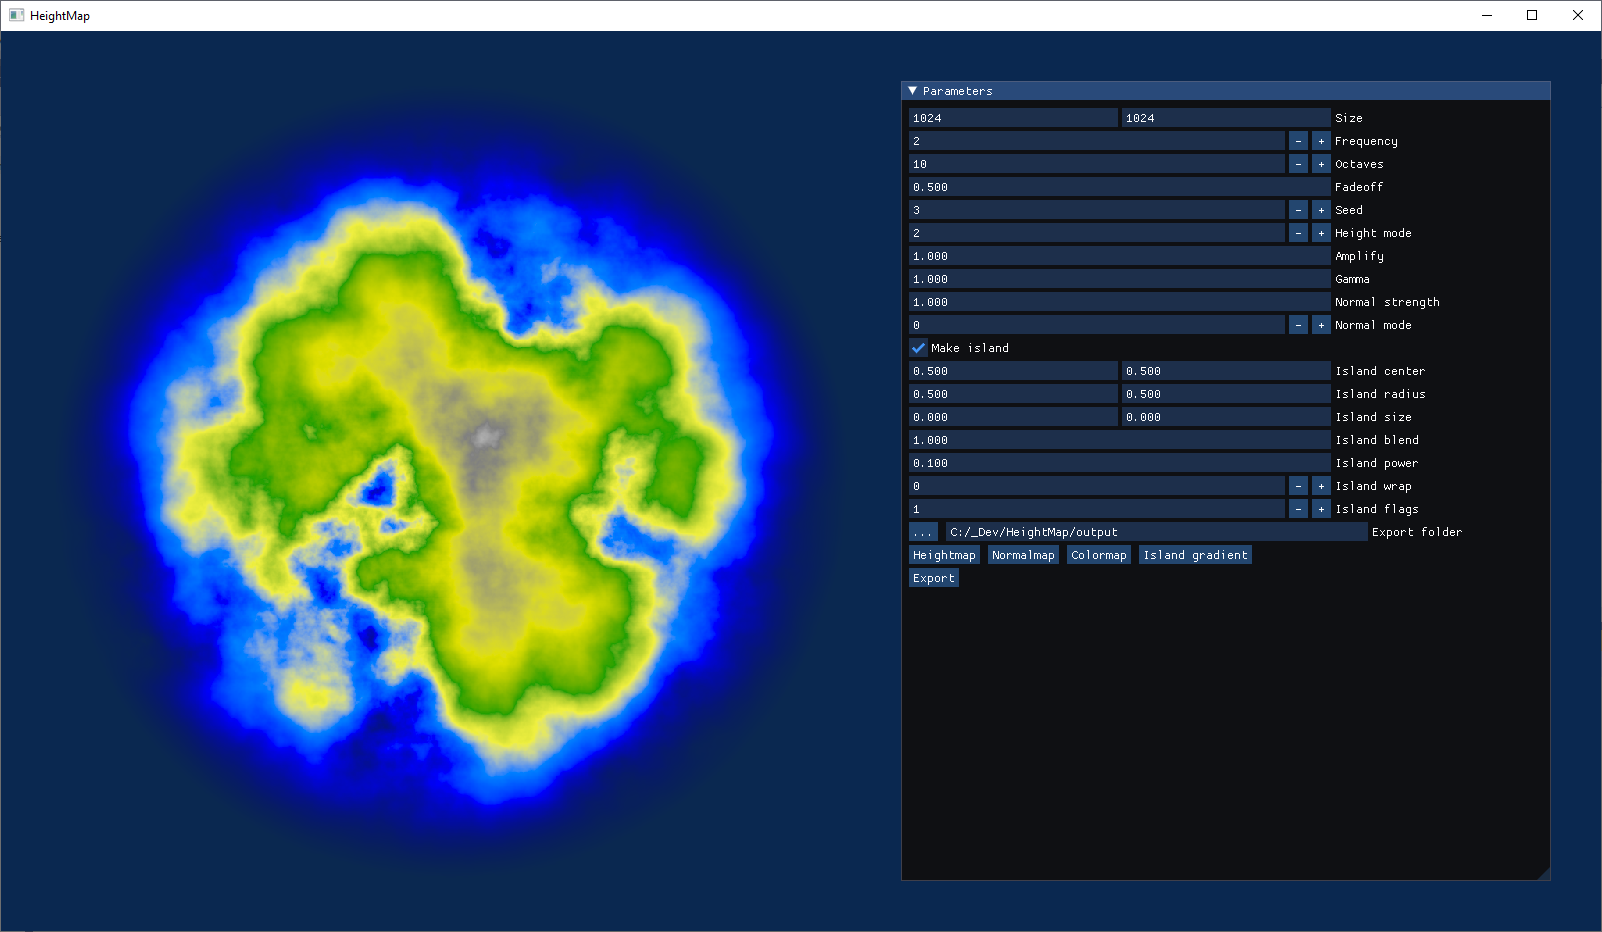
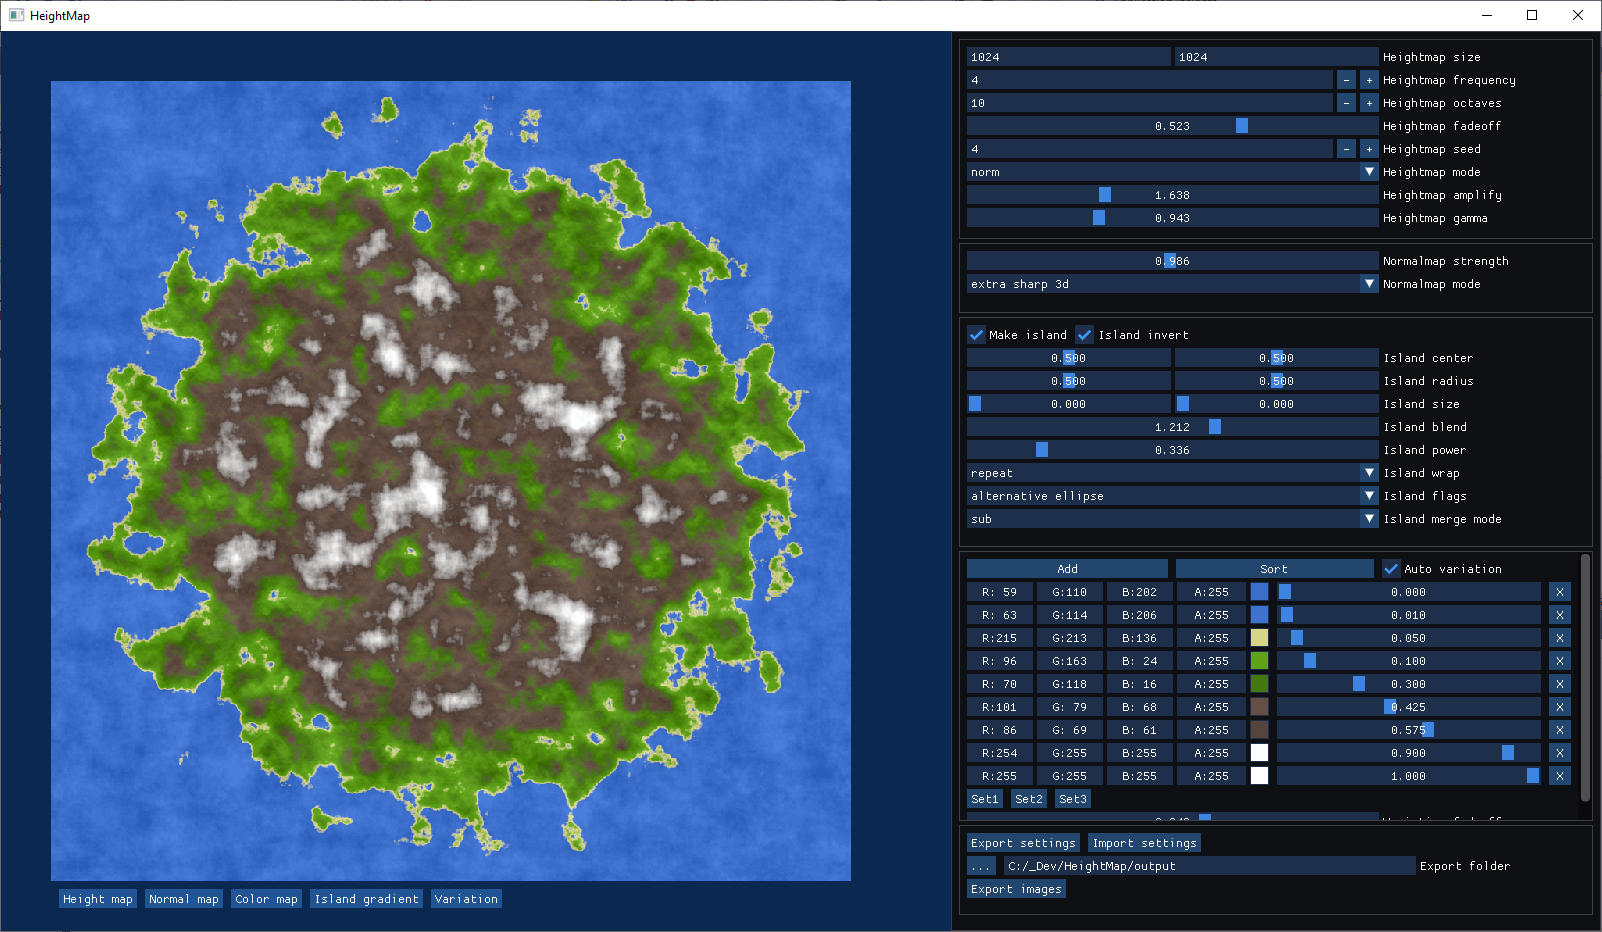
colors

diff --git a/HeightMap/view.cpp b/HeightMap/view.cpp
@@ -20,7 +20,7 @@
 namespace
   {
   template <typename T, typename Compare>
-  std::vector<std::size_t> sort_permutation(const std::vector<T>& vec, Compare& compare)
+  std::vector<std::size_t> sort_permutation(const std::vector<T>& vec, Compare compare)
     {
     std::vector<std::size_t> p(vec.size());
     std::iota(p.begin(), p.end(), 0);
@@ -108,7 +108,33 @@ namespace
     return clrs;
     }
 
-  std::unique_ptr<image> image_height_to_color(const std::unique_ptr<image>& im_height, std::vector<map_color> colors)
+  template <class T>
+  inline T clamp(T a, T minimum, T maximum)
+    {
+    return a < minimum ? minimum : a > maximum ? maximum : a;
+    }
+
+  uint64_t vary_color(uint64_t clr, uint64_t variation)
+    {
+    int64_t red = clr & 0x7fff;
+    int64_t green = (clr >> 16) & 0x7fff;
+    int64_t blue = (clr >> 32) & 0x7fff;
+    int64_t alpha = (clr >> 48) & 0x7fff;
+
+    int64_t var = ((variation & 0x7fff) >> 3) - (0x7fff>>4);
+    
+    red += var;
+    green += var;
+    blue += var;
+
+    red = clamp<int64_t>(red, 0, 0x7fff);
+    green = clamp<int64_t>(green, 0, 0x7fff);
+    blue = clamp<int64_t>(blue, 0, 0x7fff);
+
+    return alpha << 48 | blue << 32 | green << 16 | red;
+    }
+
+  std::unique_ptr<image> image_height_to_color(const std::unique_ptr<image>& im_height, const std::unique_ptr<image>& im_variation, std::vector<map_color> colors)
     {
     if (colors.empty())
       {
@@ -132,6 +158,10 @@ namespace
     uint64_t* dest = im_out->data();
     const uint64_t* height = im_height->data();
     uint32_t count = im_out->size();
+    uint64_t default_variation = 0;
+    const uint64_t* variation = &default_variation;
+    if (im_variation.get())
+      variation = im_variation->data();
     for (uint32_t i = 0; i < count; ++i)
       {
       double scale = (double)(*height & 0x7fff) / 0x7fff;
@@ -160,10 +190,13 @@ namespace
         rgba c3 = c1 * (1 - alpha) + c2 * alpha;
         *dest = get_color_64(c3.color());
         }
+      if (*variation)
+        *dest = vary_color(*dest, *variation);
       ++height;
       ++dest;
+      if (im_variation.get())
+        ++variation;
       }
-
     return im_out;
     }
 
@@ -187,6 +220,40 @@ namespace
     s.colors.push_back(0xff00e0e0);
     s.colors.push_back(0xff808080);
     s.colors.push_back(0xffffffff);
+    }
+
+  void make_color_set2(settings& s)
+    {
+    s.heights.clear();
+    s.colors.clear();
+    s.colors.push_back(rgba(59, 110, 202, 255).color()); s.heights.push_back(0);
+    s.colors.push_back(rgba(63, 114, 206, 255).color()); s.heights.push_back(0.01);
+    s.colors.push_back(rgba(215, 213, 136, 255).color()); s.heights.push_back(0.05);
+    s.colors.push_back(rgba(96, 163, 24, 255).color()); s.heights.push_back(0.1);
+    s.colors.push_back(rgba(70, 118, 16, 255).color()); s.heights.push_back(0.3);
+    s.colors.push_back(rgba(101, 79, 68, 255).color()); s.heights.push_back(0.425);
+    s.colors.push_back(rgba(86, 69, 61, 255).color()); s.heights.push_back(0.575);
+    s.colors.push_back(rgba(254, 255, 255, 255).color()); s.heights.push_back(0.9);
+    s.colors.push_back(rgba(255, 255, 255, 255).color()); s.heights.push_back(1.0);
+    }
+
+  void make_color_set3(settings& s)
+    {
+    s.heights.clear();
+    s.colors.clear();
+    s.colors.push_back(rgba(0, 63, 178, 255).color()); s.heights.push_back(0);
+    s.colors.push_back(rgba(11, 83, 200, 255).color()); s.heights.push_back(0.01);
+    s.colors.push_back(rgba(164, 150, 95, 255).color()); s.heights.push_back(0.05);
+    s.colors.push_back(rgba(132, 117, 70, 255).color()); s.heights.push_back(0.1);
+    s.colors.push_back(rgba(113, 101, 51, 255).color()); s.heights.push_back(0.2);
+    s.colors.push_back(rgba(120, 157, 81, 255).color()); s.heights.push_back(0.3);
+    s.colors.push_back(rgba(88, 128, 51, 255).color()); s.heights.push_back(0.4);
+    s.colors.push_back(rgba(59, 97, 20, 255).color()); s.heights.push_back(0.5);
+    s.colors.push_back(rgba(39, 77, 1, 255).color()); s.heights.push_back(0.6);
+    s.colors.push_back(rgba(141, 142, 124, 255).color()); s.heights.push_back(0.7);
+    s.colors.push_back(rgba(161, 164, 145, 255).color()); s.heights.push_back(0.8);
+    s.colors.push_back(rgba(235, 235, 237, 255).color()); s.heights.push_back(0.9);
+    s.colors.push_back(rgba(254, 254, 254, 255).color()); s.heights.push_back(1.0);
     }
 
   }
@@ -371,20 +438,24 @@ void view::_imgui_ui()
     ImGui::BeginChild("Colors", ImVec2(0.0, 270.0f), true);
     ImGui::BeginGroup();
 
-    if (ImGui::Button("Add", ImVec2(ImGui::GetContentRegionAvail().x * 0.5, 0)))
+    if (ImGui::Button("Add", ImVec2(ImGui::GetContentRegionAvail().x * 0.3333f, 0)))
       {
       _settings.heights.push_back(0.0);
       _settings.colors.push_back(0xff00ff00);
       _dirty = true;
       }
     ImGui::SameLine();
-    if (ImGui::Button("Sort", ImVec2(ImGui::GetContentRegionAvail().x, 0)))
+    if (ImGui::Button("Sort", ImVec2(ImGui::GetContentRegionAvail().x*0.5f, 0)))
       {
       auto p = sort_permutation(_settings.heights, [](auto left, auto right) { return left < right; });
       _settings.heights = apply_permutation(_settings.heights, p);
       _settings.colors = apply_permutation(_settings.colors, p);
       }
-
+    ImGui::SameLine();
+    if (ImGui::Checkbox("Auto variation", &_settings.auto_vary_colors))
+      {
+      _dirty = true;
+      }
     uint32_t colors_size = (uint32_t)_settings.colors.size();
     if (_settings.heights.size() < colors_size)
       colors_size = (uint32_t)_settings.heights.size();
@@ -401,7 +472,7 @@ void view::_imgui_ui()
         uint32_t green = (uint32_t)(clr[1] * 255.f);
         uint32_t blue = (uint32_t)(clr[2] * 255.f);
         uint32_t alpha = (uint32_t)(clr[3] * 255.f);
-        _settings.colors[i] = alpha << 24 | blue << 16 | green <<  8 | red;
+        _settings.colors[i] = alpha << 24 | blue << 16 | green << 8 | red;
         _dirty = true;
         }
       ImGui::PopItemWidth();
@@ -433,7 +504,28 @@ void view::_imgui_ui()
       delete_items(_settings.colors, points_to_delete);
       delete_items(_settings.heights, points_to_delete);
       _dirty = true;
-      }    
+      }
+    if (ImGui::Button("Set1"))
+      {
+      make_color_set1(_settings);
+      _dirty = true;
+      }
+    ImGui::SameLine();
+    if (ImGui::Button("Set2"))
+      {
+      make_color_set2(_settings);
+      _dirty = true;
+      }
+    ImGui::SameLine();
+    if (ImGui::Button("Set3"))
+      {
+      make_color_set3(_settings);
+      _dirty = true;
+      }
+    if (ImGui::SliderFloat("Variation fadeoff", &_settings.variation_fadeoff, -1.5f, 1.5f))
+      {
+      _dirty = true;
+      }
     ImGui::EndGroup();
     ImGui::EndChild();
 
@@ -525,6 +617,12 @@ void view::_imgui_ui()
       _settings.render_target = 3;
       _dirty = true;
       }
+    ImGui::SameLine();
+    if (ImGui::Button("Variation"))
+      {
+      _settings.render_target = 4;
+      _dirty = true;
+      }
     }
   ImGui::End();
 
@@ -597,7 +695,12 @@ void view::_check_image()
   _normalmap = image_normals(_heightmap, _settings.normalmap_strength, static_cast<image_normals_mode>(_settings.normalmap_mode));
 
   std::vector<map_color> colors = build_map_colors(_settings.colors, _settings.heights);
-  _colormap = image_height_to_color(_heightmap, colors);
+  std::unique_ptr<image> _variation;
+  if (_settings.auto_vary_colors || _settings.render_target == 4)
+    {
+    _variation = image_perlin(_settings.width, _settings.height, _settings.frequency, _settings.octaves, _settings.fadeoff+_settings.variation_fadeoff, _settings.seed+1, static_cast<image_perlin_mode>(_settings.mode), _settings.amplify, _settings.gamma, 0xff000000, 0xffffffff);
+    }
+  _colormap = image_height_to_color(_heightmap, _variation, colors);
   if (_reallocate_sdl_surface)
     {
     SDL_FreeSurface(_heightmap_surface);
@@ -616,6 +719,10 @@ void view::_check_image()
       break;
     case 3:
       fill_sdl_surface(_heightmap_surface, _islandgradient);
+      break;
+    case 4:
+      if (_variation.get())
+        fill_sdl_surface(_heightmap_surface, _variation);      
       break;
     default:
       fill_sdl_surface(_heightmap_surface, _heightmap);

diff --git a/HeightMap/settings.cpp b/HeightMap/settings.cpp
@@ -8,6 +8,7 @@ settings::settings()
   frequency = 2;
   octaves = 6;
   fadeoff = 0.5f;
+  variation_fadeoff = 0.f;
   seed = 0;
   mode = 0;
   amplify = 1.f;
@@ -29,6 +30,8 @@ settings::settings()
   island_flags = 1;
   island_merge_mode = 2;
   island_invert = false;
+
+  auto_vary_colors = true;
   }
 
 
@@ -63,6 +66,8 @@ settings read_settings(const char* filename)
   f["island_merge_mode"] >> s.island_merge_mode;
   f["island_invert"] >> s.island_invert;
   f["export_folder"] >> s.export_folder;
+  f["auto_vary_colors"] >> s.auto_vary_colors;
+  f["variation_fadeoff"] >> s.variation_fadeoff;
 
   f["colors"] >> s.colors;
   f["heights"] >> s.heights;
@@ -100,6 +105,8 @@ void write_settings(const settings& s, const char* filename)
   f << "island_invert" << s.island_invert;
 
   f << "export_folder" << s.export_folder;
+  f << "auto_vary_colors" << s.auto_vary_colors;
+  f << "variation_fadeoff" << s.variation_fadeoff;
 
   f << "colors" << s.colors;
   f << "heights" << s.heights;

diff --git a/HeightMap/settings.h b/HeightMap/settings.h
@@ -13,6 +13,7 @@ struct settings
   int32_t frequency;
   int32_t octaves;
   float fadeoff;
+  float variation_fadeoff;
   int32_t seed;
   int32_t mode;
   float amplify;
@@ -34,6 +35,7 @@ struct settings
   int32_t island_flags;
   int32_t island_merge_mode;
   bool island_invert;
+  bool auto_vary_colors;
 
   int32_t render_target;
 
